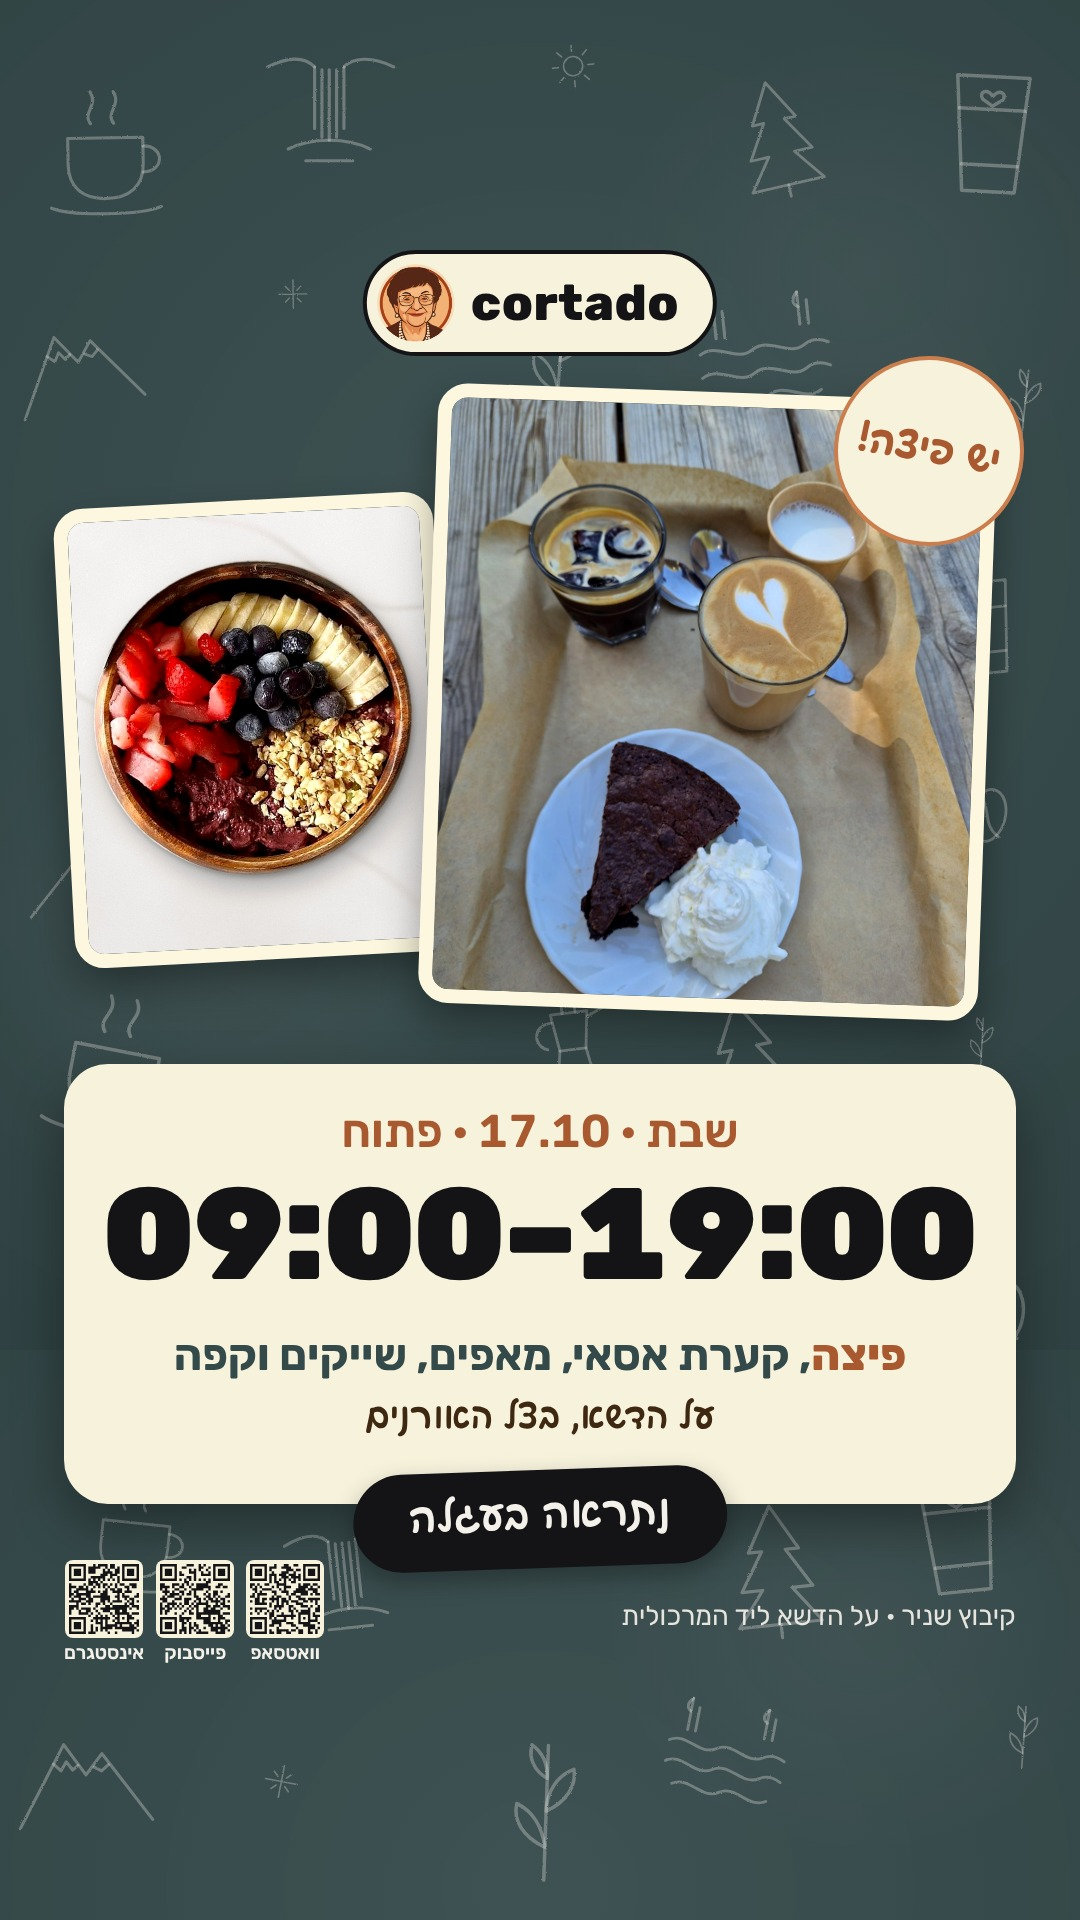
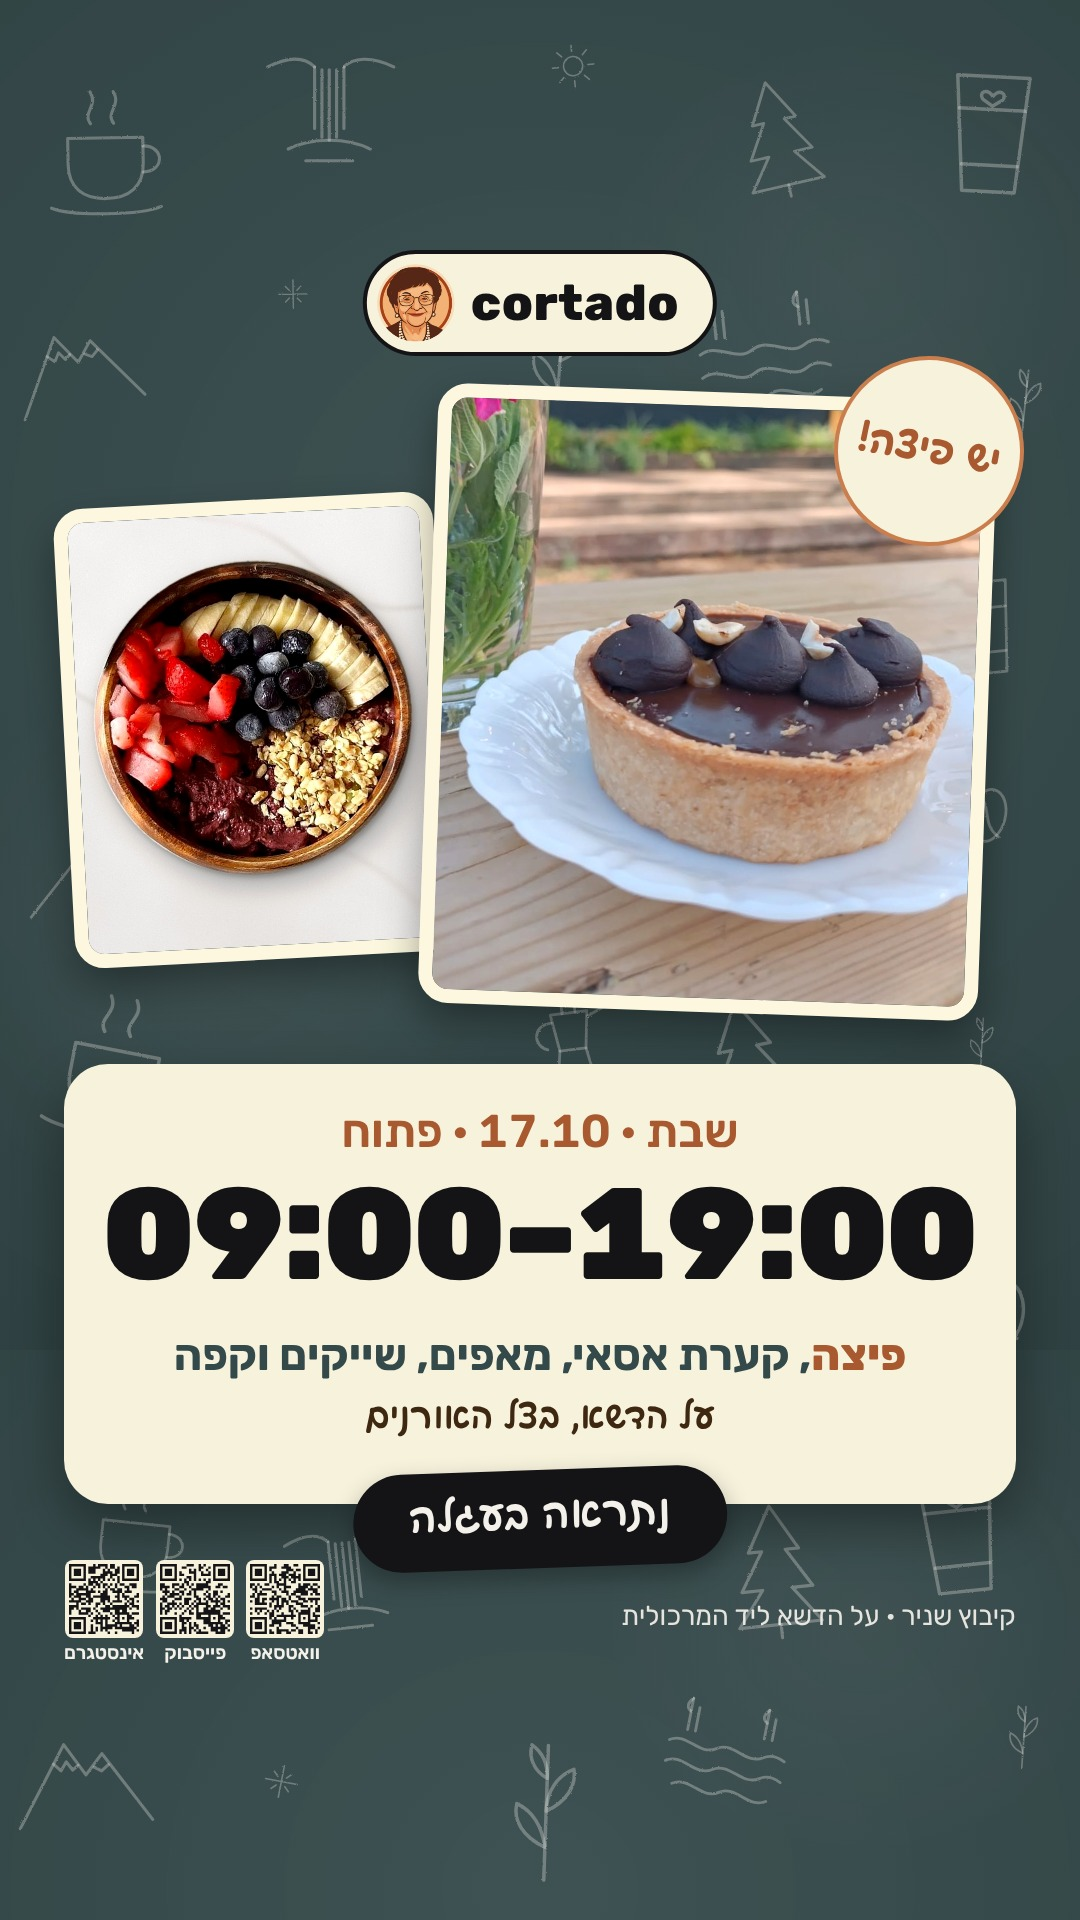
Next-day story: pastry-tray out (owner: not for publishing), chocolate tart in
Claude-Session: https://claude.ai/code/session_019QzmPdVBuLLW1qBPRqj2bP

Changed region(s): [[0.3972, 0.1875, 0.9167, 0.5312]]

diff --git a/toolkit/scripts/next_day_story.py b/toolkit/scripts/next_day_story.py
@@ -17,7 +17,7 @@ STATE = ROOT / "story-rotation.json"
 # pastry-5 (busy backgrounds), pizza.jpg (blurry).
 POOLS = {
     "coffee": ["cortado-lawn.jpg", "coffee-2.jpg", "coffee-3.jpg"],
-    "pastry": ["pastry-tray.jpg", "pastry-2.jpg", "pastry-4.jpg"],
+    "pastry": ["pastry-2.jpg", "pastry-4.jpg", "pastry-3.jpg"],  # pastry-tray: owner said not for publishing (10.10.2026)
     "acai": ["acai.jpg"],  # the owner's one bowl photo (10.10.2026)
 }
 CATS = ["coffee", "pastry", "acai"]
@@ -75,8 +75,8 @@ if __name__ == "__main__":
     # self-check: categories turn, photos inside a category turn, no photo repeats early
     st, d = {}, datetime.date(2026, 10, 12)
     seen = [story(d, ["17:00–19:00"], st) for _ in range(3)]
-    assert [x["main"] for x in seen] == ["cortado-lawn.jpg", "pastry-2.jpg", "acai.jpg"], seen
-    assert [x["second"] for x in seen] == ["pastry-tray.jpg", "acai.jpg", "coffee-2.jpg"], seen
+    assert [x["main"] for x in seen] == ["cortado-lawn.jpg", "pastry-4.jpg", "acai.jpg"], seen
+    assert [x["second"] for x in seen] == ["pastry-2.jpg", "acai.jpg", "coffee-2.jpg"], seen
     assert all("pizza" not in x["main"] + x["second"] for x in seen)
     assert all((ROOT / "assets/photos" / f).exists() for v in POOLS.values() for f in v)
     main()

diff --git a/toolkit/SKILL.md b/toolkit/SKILL.md
@@ -190,3 +190,7 @@ Name it `NN-name.html`.
 
 ## Acai bowl photo (owner, 10.10.2026)
 `assets/photos/acai.jpg` is the owner's bowl photo (wooden bowl on marble: berries, banana, blueberries, granola). From 10.10.2026 it is the only acai bowl image used in any design. Do not bring back the older hand-held bowl photos.
+
+## Not for publishing (owner, 10.10.2026)
+- `pastry-tray.jpg` (tray with iced coffee, muffin, cheese pastry, croissant): do not use in anything published.
+- Pizza photos (`pizza.jpg`, `pizza-2.jpg`): the next-day stories carry no pizza photo; pizza is named in the text and the sticker only.
